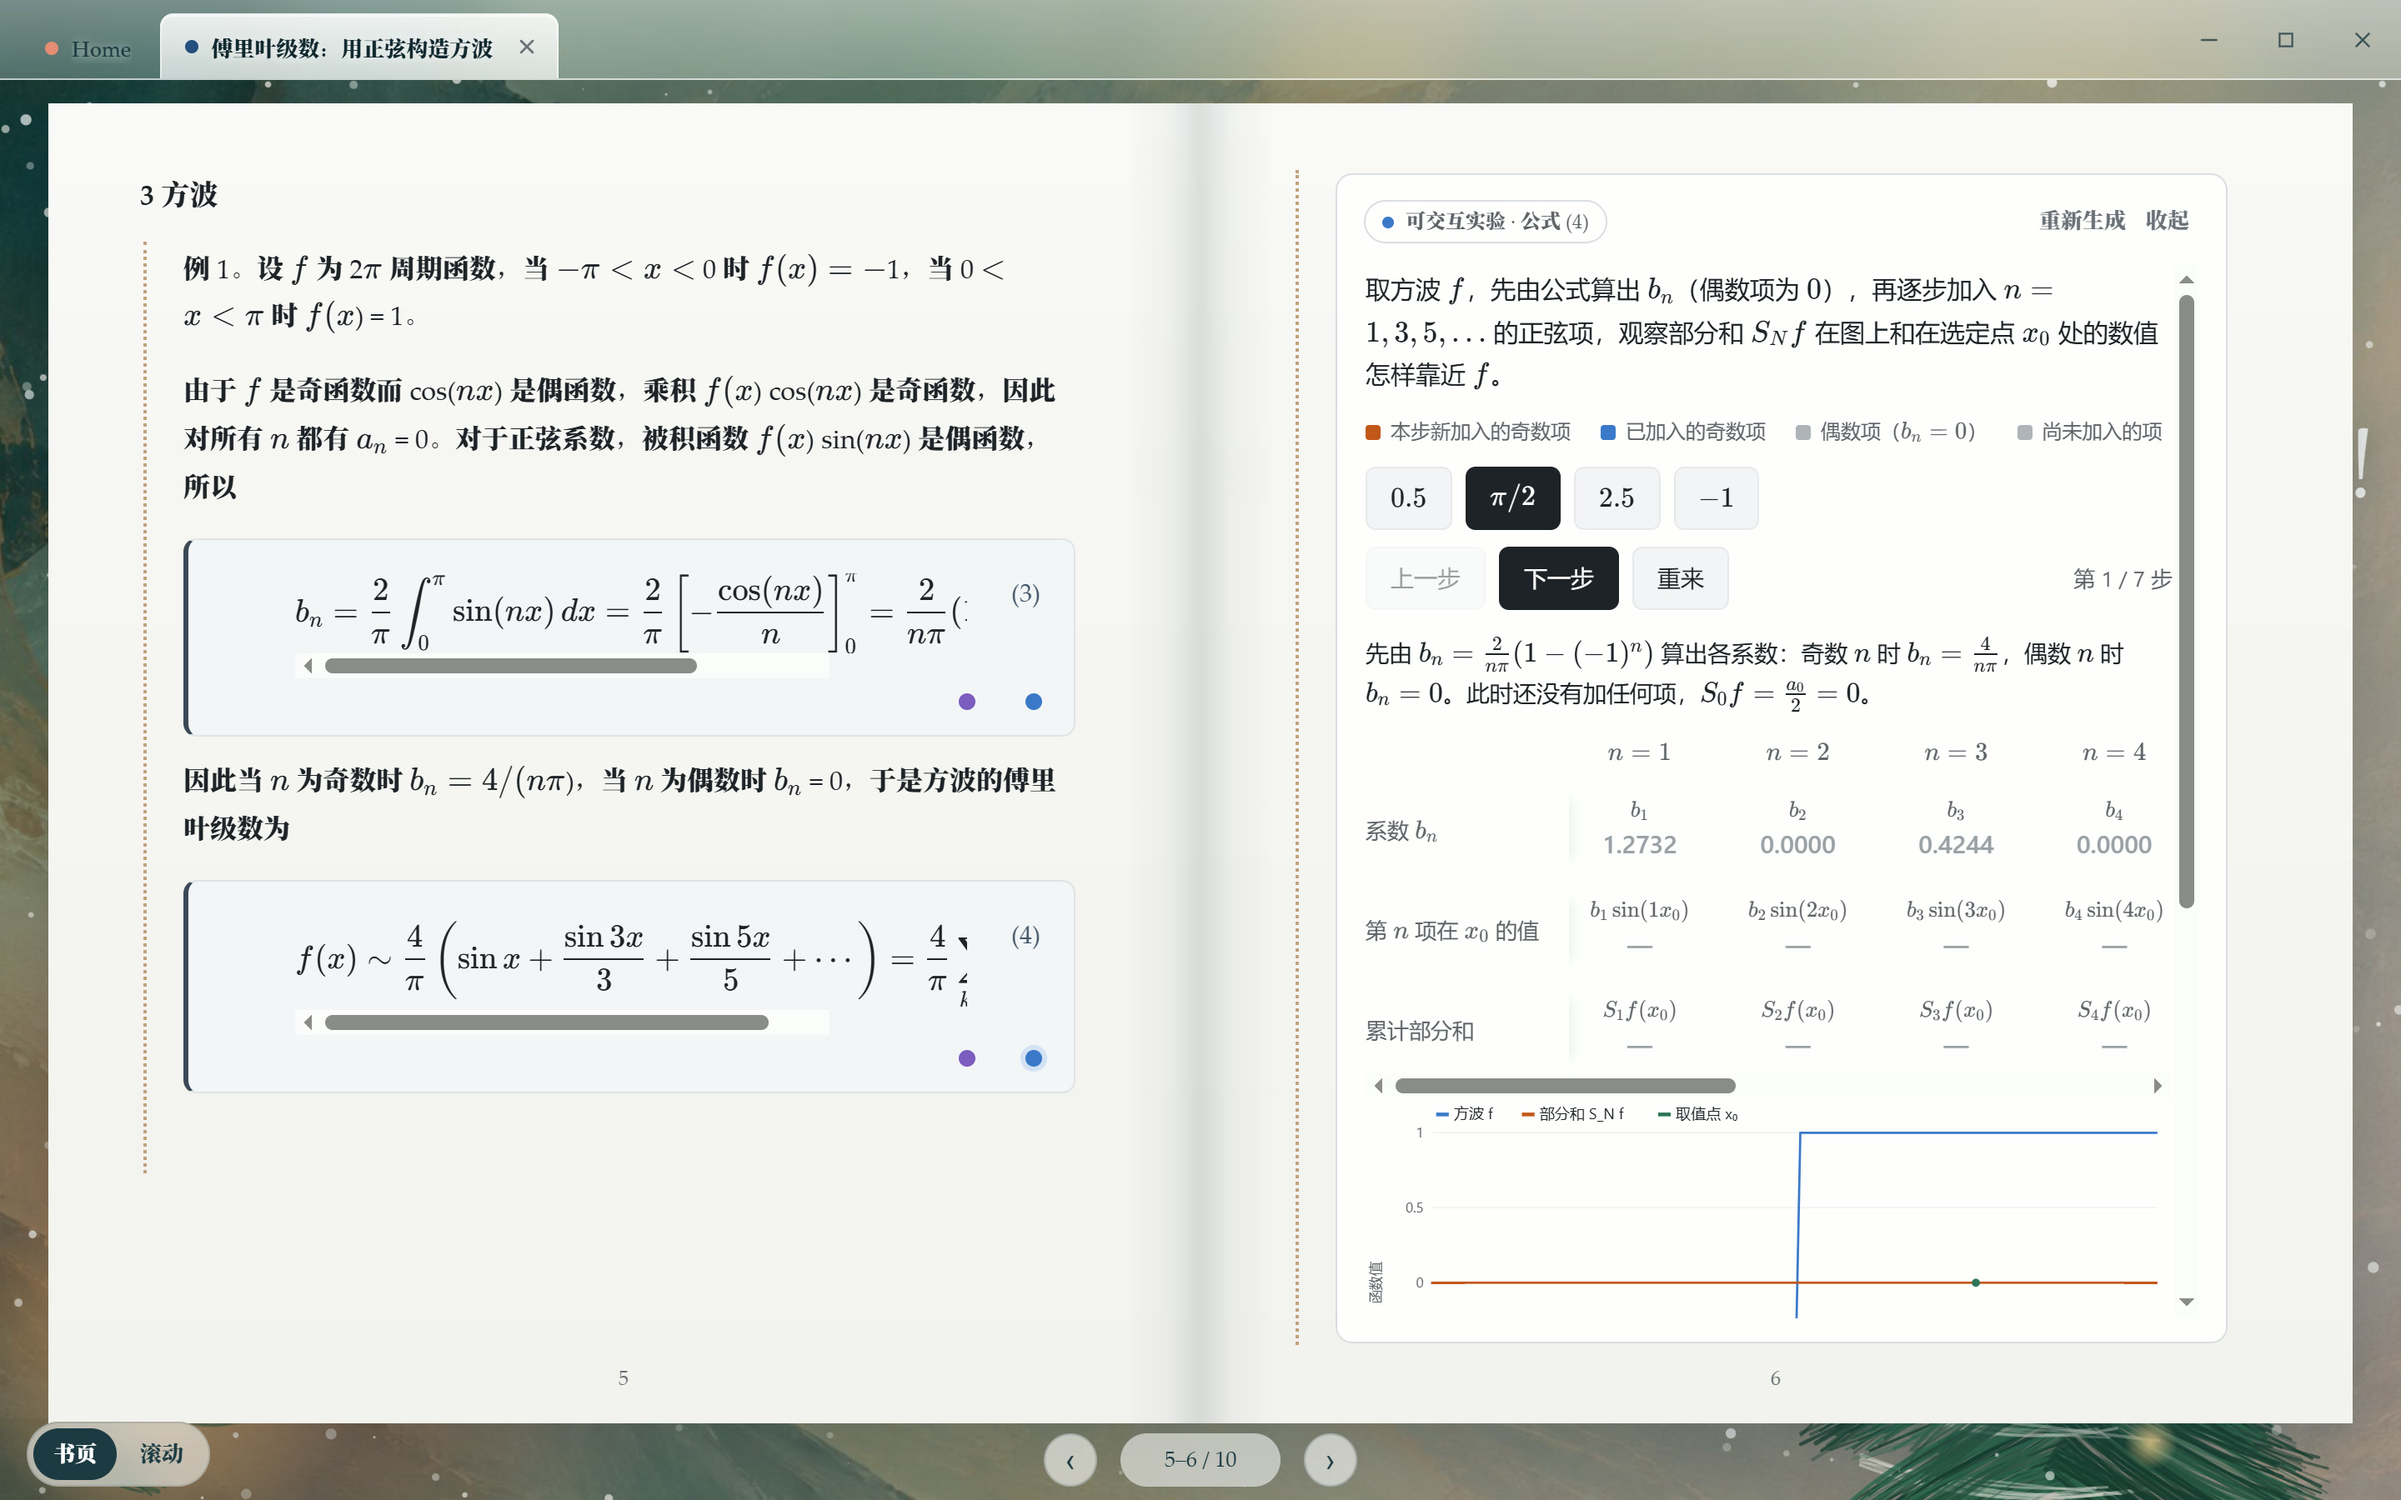
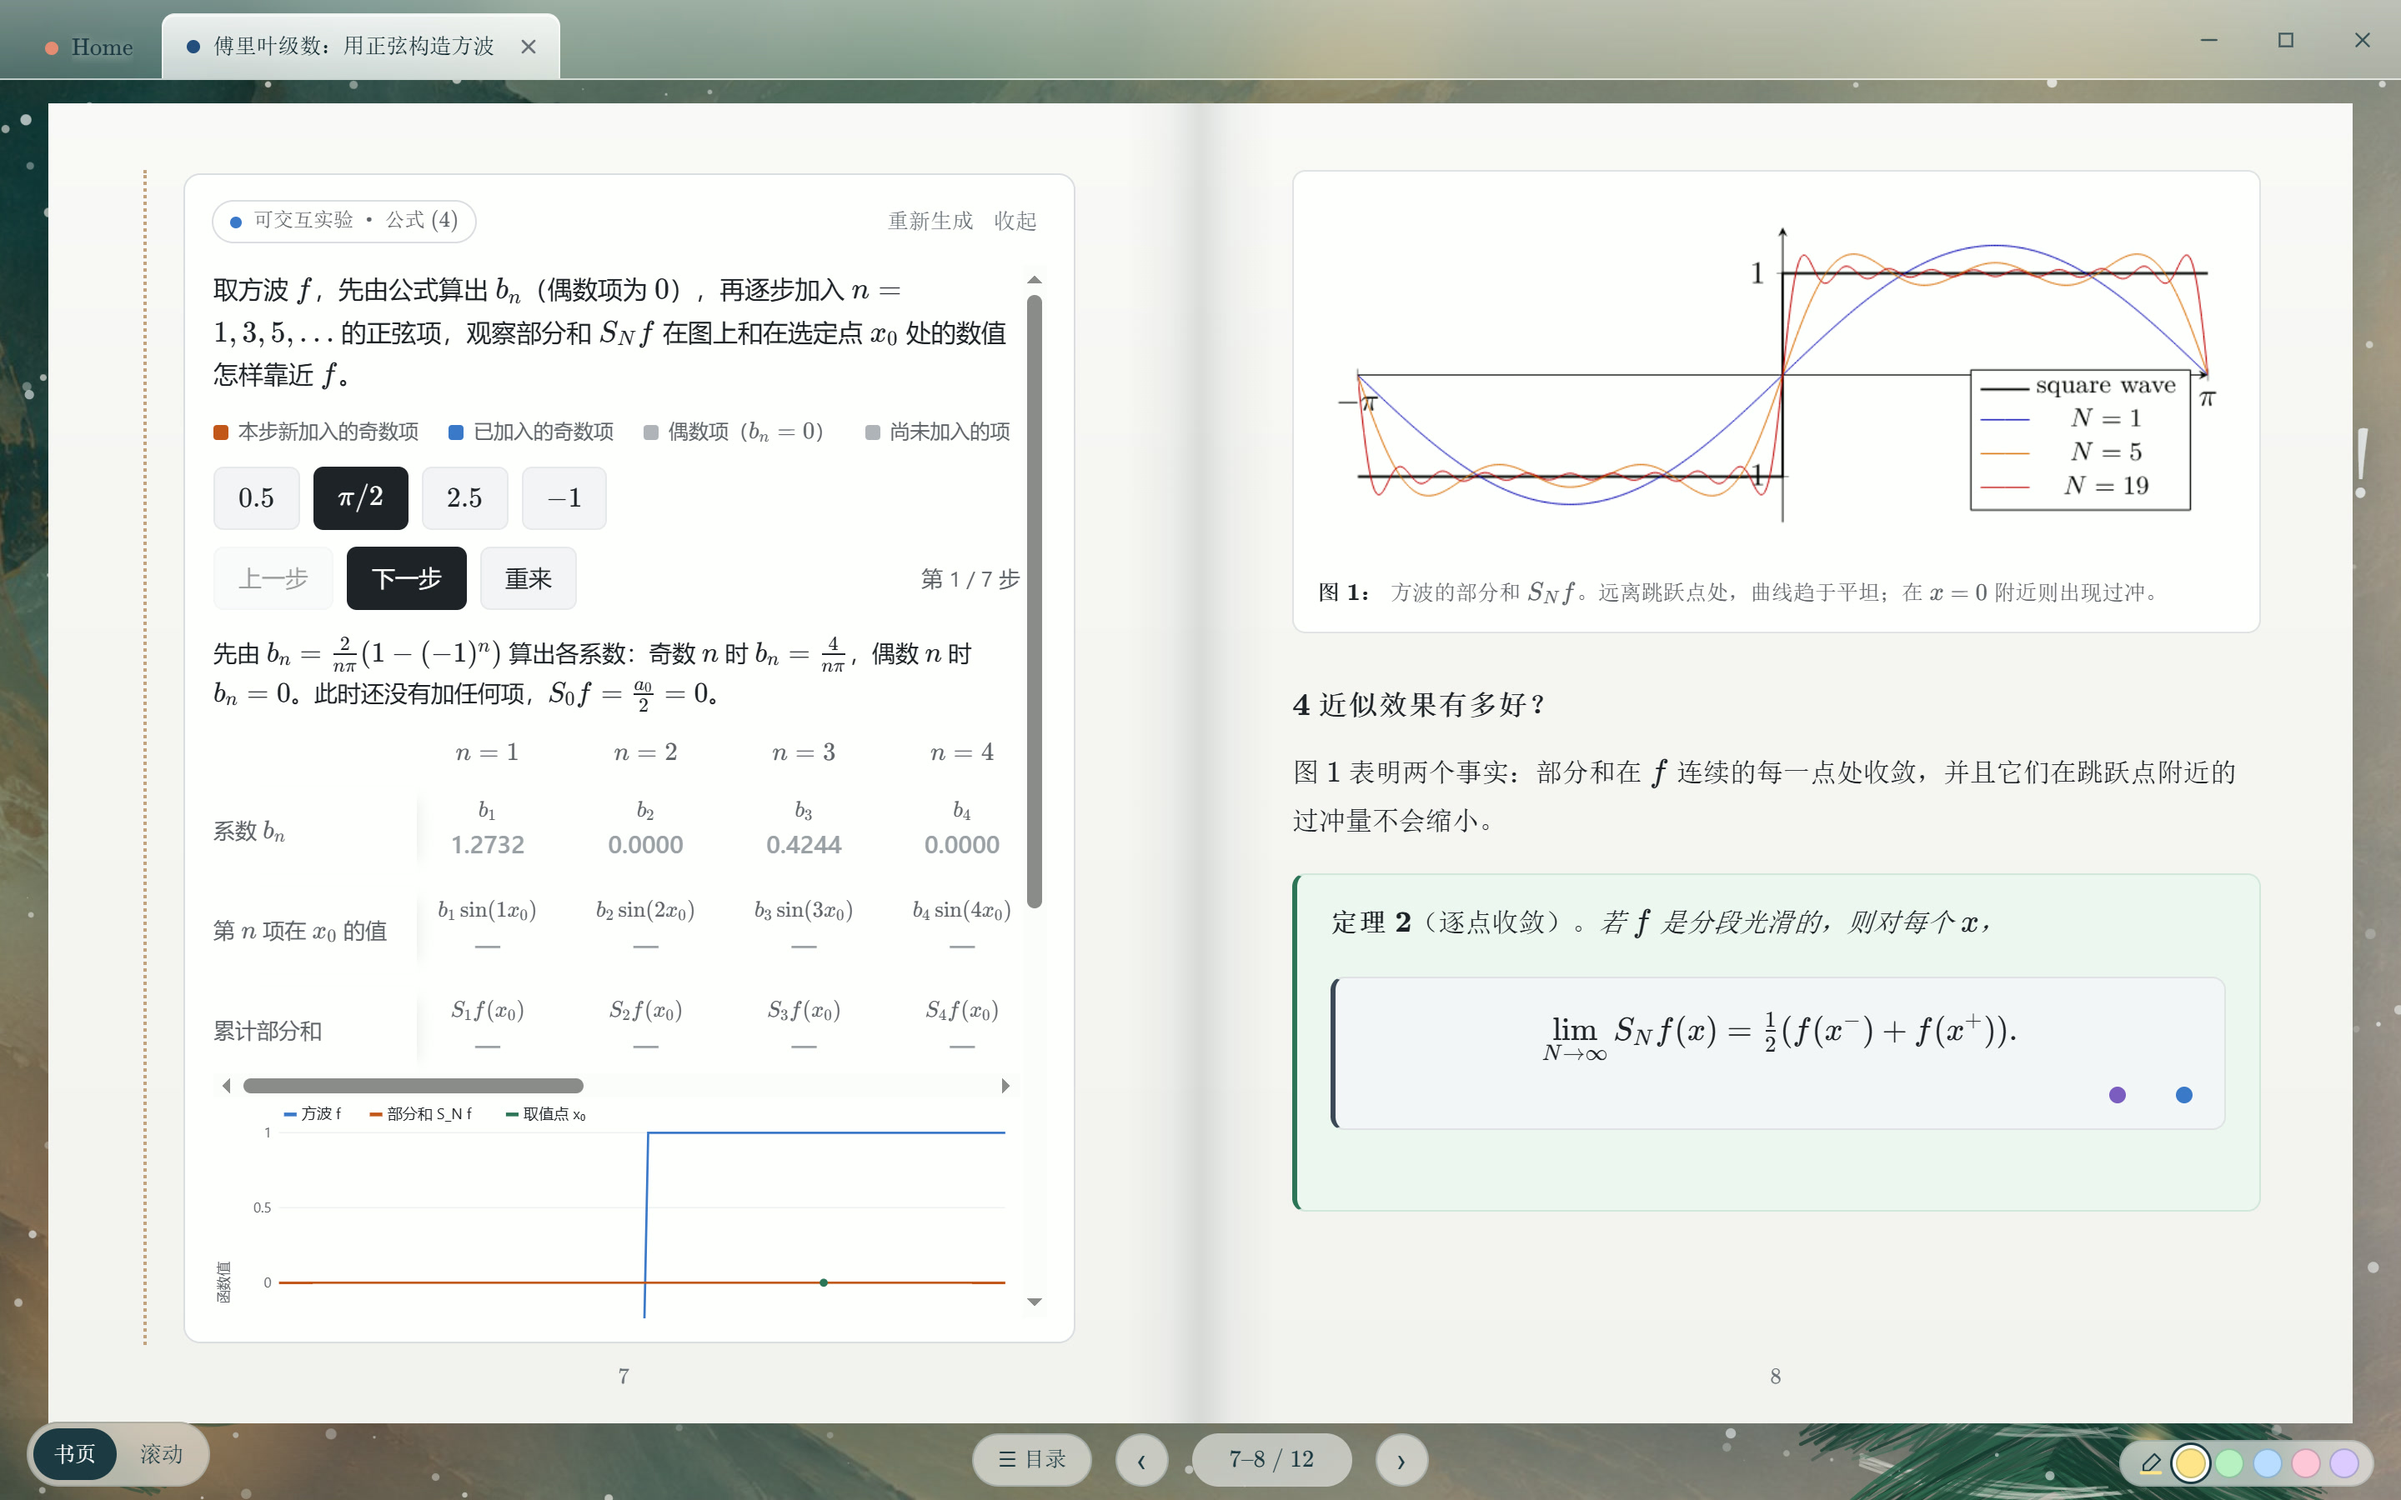
V4.1 alpha: highlights and in-place Q&A, contents on every page, new screenshots

diff --git a/README.md b/README.md
@@ -7,11 +7,11 @@
 <p align="center">
   <b>The PDF Dimension Lifter</b><br>
   <b><i>Drop in a PDF you can't follow. Get back a book you can.</i></b><br>
-  <i>Faithful translation, clear logical structure, page-flip reading, and live interactive visualizations for any formula you're stuck on.</i>
+  <i>Faithful translation, clear logical structure, page-flip reading, highlights with in-place Q&amp;A, and live interactive visualizations for any formula you're stuck on.</i>
 </p>
 
 <p align="center">
-  <a href="https://github.com/zero-knowledge123/Make-It-Easy-Releases/releases/latest"><b>⬇ 下载最新版（Windows）</b></a>
+  <a href="https://github.com/zero-knowledge123/Make-It-Easy-Releases/releases/latest"><b>⬇ 下载最新版 V4.1 alpha（Windows）</b></a>
 </p>
 
 <p align="center">
@@ -22,19 +22,25 @@
 
 ## 它能做什么
 
-把论文、教材或讲义的 PDF 拖进来，点「编译」，几分钟后得到一份能读懂的版本：原文忠实翻译，论证结构标出来，排成一本可以翻页的书。哪条公式看不懂，点一下，AI 就为它现场做一个能动手操作的演示。
+把论文、教材或讲义的 PDF 拖进来，点「编译」，几分钟后得到一份能读懂的版本：原文忠实翻译，论证结构标出来，排成一本可以翻页的书。哪条公式看不懂，点一下，AI 就为它现场做一个能动手操作的演示；哪句话看不懂，选中它直接问，回答就留在那句话下面。
 
 ### ✨ 哪条公式看不懂，就为它做一个演示
 
 <img src="images/module.jpg" alt="可交互演示：一步步加入正弦项，看部分和逼近方波" width="100%">
 
-每条公式旁边有两个小圆点。蓝点生成**可交互实验**，可以改参数、上一步下一步地把推导走一遍；紫点生成**可视化动画**。演示由 AI 读懂这条公式后当场写出，交给你之前会先在本地试运行校验。
+每条公式旁边有两个小圆点。蓝点生成**可交互实验**，可以改参数、上一步下一步地把推导走一遍；紫点生成**可视化动画**。演示由 AI 读懂这条公式后当场写出，交给你之前会先在本地试运行校验。演示打开时是暂停的，框的大小固定不跳；生成中可以随时「中止」。
 
 ### 📖 像一本真书那样翻页
 
 <img src="images/book.jpg" alt="书页模式：两页并排铺满窗口" width="100%">
 
-两页并排铺满窗口，`D` 或 `→` 下一页，`A` 或 `←` 上一页。公式、图表、注释和演示不会被拆到两页。左下角可以切回滚动版式。
+两页并排铺满窗口，`D` 或 `→` 下一页，`A` 或 `←` 上一页。公式、图表、注释和演示不会被拆到两页。底栏的「☰ 目录」每一页都能打开，左下角可以切回滚动版式。
+
+### ✍ 画笔高亮，选中就问
+
+<img src="images/notes.jpg" alt="两处不同颜色的高亮，和一条展开在原句下方的 AI 回答" width="100%">
+
+右下角选画笔颜色，按住右键拖过文字就涂上。左键选中一段，写下问题回车：AI 只收到这段和它前后几段，不重读整篇，省时间也省额度。回答留在那段下面，收起后只剩一个小三角；高亮和问答都存在本机，你删了才会删。
 
 ### 🧭 忠实翻译，论证结构标出来
 
@@ -46,7 +52,7 @@
 
 <img src="images/home.jpg" alt="文献列表" width="100%">
 
-编译好的文献自动分组，编译时显示进度和剩余时间。AI 可以用你自己已登录的 Claude Code、Codex 或 Gemini CLI（走你自己的订阅，不需要 API 密钥），也可以填云端 API 密钥。
+编译好的文献自动分组，编译时显示进度和剩余时间。AI 可以用你自己已登录的 Claude Code、Codex 或 Gemini CLI（走你自己的订阅，不需要 API 密钥），也可以填云端 API 密钥，模型可从常见型号里下拉选。字体可以自己挑：西文默认论文用的 Computer Modern，中、日、韩、阿拉伯、印地文各有几款常见字体。
 
 ## 安装
 
@@ -62,6 +68,9 @@
 
 **要花钱吗？**
 个人学习、研究和学校使用免费。AI 用的是你自己的订阅或 API 额度。
+
+**选中提问要花很多额度吗？**
+不多。每次只发选中的文字、它所在的几段和你的问题，通常一千字以内。
 
 **数据存在哪里？**
 都在你自己的电脑上。文献列表右上角的「存储位置」可以把数据一键搬到别的盘。
